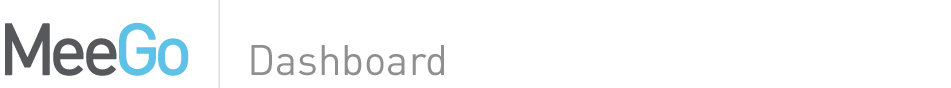
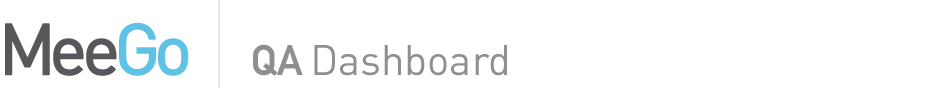
Updated title, header & fixed widgetbar overflow bug

Changed region(s): [[0.244, 0.5, 0.5489, 0.8636]]

diff --git a/public/less/dashboard.less b/public/less/dashboard.less
@@ -136,13 +136,16 @@ aside {
 	-webkit-box-shadow: 0px 0px 5px #aaa;
 	section.widget_info {
 		float: left;
-		padding: 15px;
+		padding: 10px;
 		width: 170px;
+		height: 78px;
+		overflow: hidden;
 		background: transparent url('../img/widgetbar_border.png') no-repeat right center;
 		color: #ccc;
 		img {
 			float: left;
 			margin-right: 10px;
+			margin-top: 5px;
 			border: 2px solid #ccc;
 			.rounded(2px);
 		}

diff --git a/public/index.html b/public/index.html
@@ -16,7 +16,7 @@ Important measurements of layout:
      <meta name="description" content="" />
      <meta name="keywords" content="" />
 
-     <title>Meego Dashboard mockup</title>
+     <title>Meego QA Dashboard</title>
 
      <!-- stylesheets -->
      <link rel="stylesheet/less" media="screen" href="/less/dashboard.less" />
